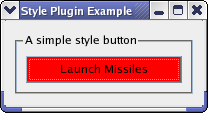
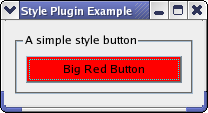
Fixes:    Minor doc change
[git-p4: depot-paths = "//depot/qt/main/": change = 253249]

Changed region(s): [[0.2885, 0.5575, 0.7212, 0.6637]]

diff --git a/examples/tools/styleplugin/stylewindow/stylewindow.cpp b/examples/tools/styleplugin/stylewindow/stylewindow.cpp
@@ -4,7 +4,7 @@
 
 StyleWindow::StyleWindow()
 {    
-    QPushButton *styledButton = new QPushButton(tr("Launch Missiles"));
+    QPushButton *styledButton = new QPushButton(tr("Big Red Button"));
 
     QGridLayout *layout = new QGridLayout;
     layout->addWidget(styledButton);
